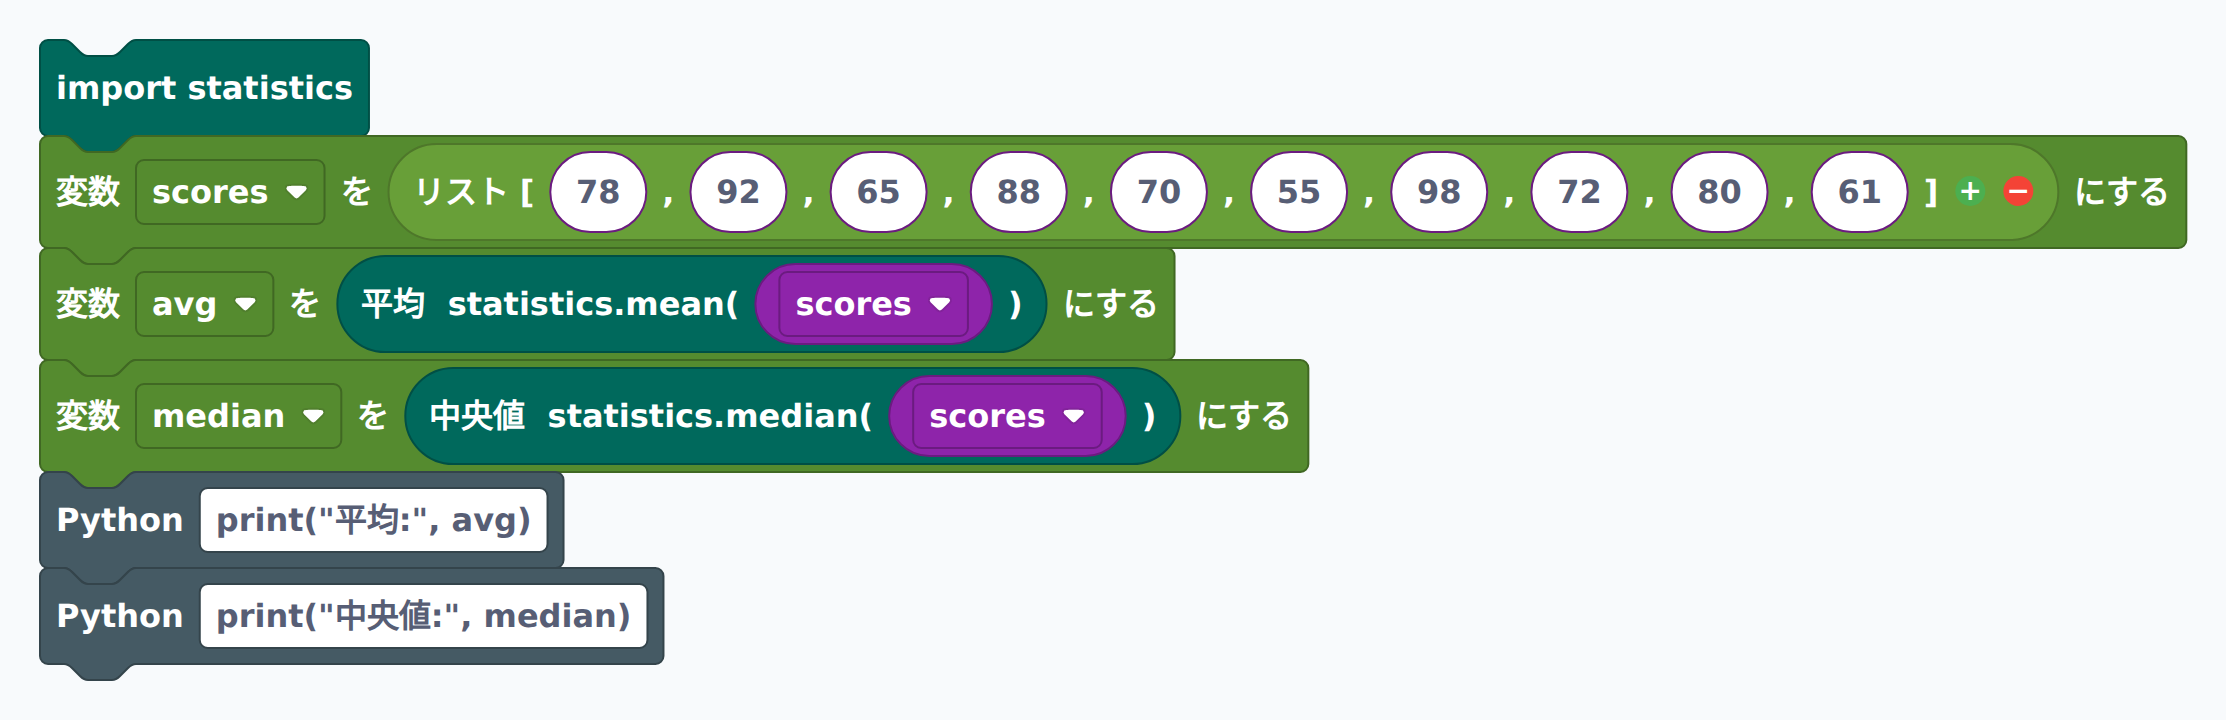
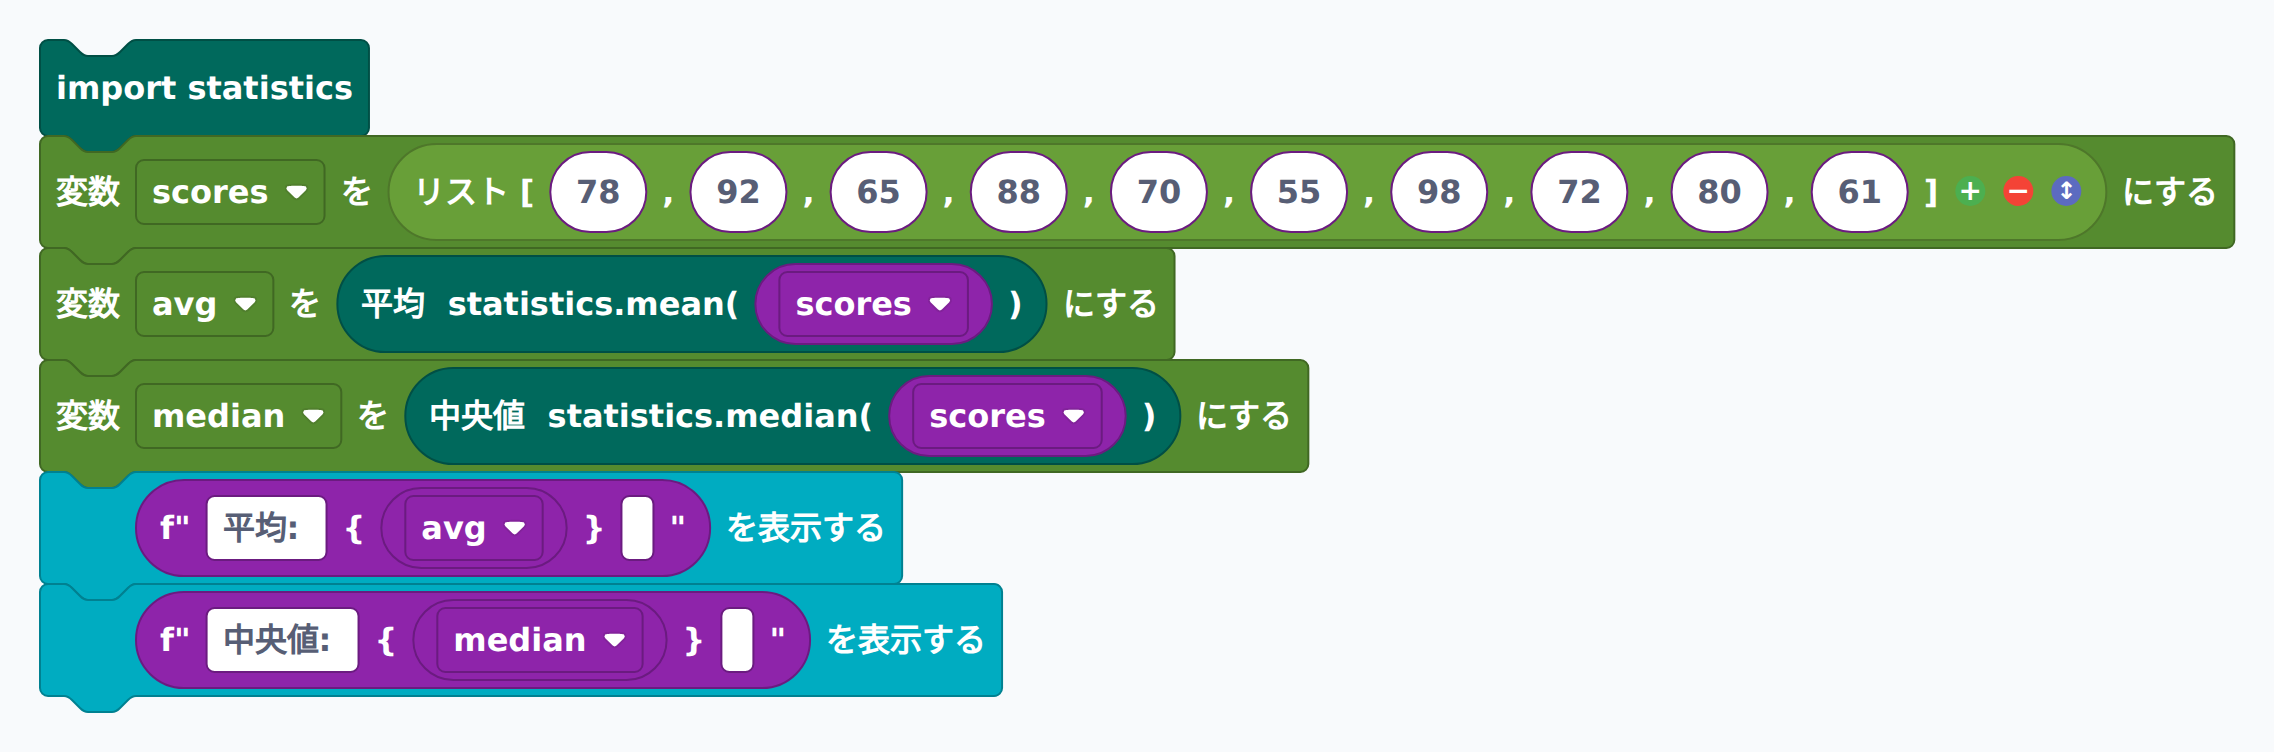
feat(stats): Skulpt用 statistics モジュール shim を追加
js/stats_engine.js を新設し、mean / median / median_low /
median_high / mode / multimode / stdev / pstdev / variance /
pvariance を Skulpt の builtinFiles に登録。Python 標準
statistics と同じ結果を返す。

これにより `import statistics` 系のブロック（py_import_stats /
py_stats_mean / py_stats_median / py_stats_stdev / py_stats_mode）
が PycoBlocks 上で実行できるようになり、Pythonデータ分析③ の
ステップ1・課題3-3-1 で発生していた ImportError を解消する。

合わせて Pythonデータ分析③ 課題3-3-1 の XML を py_custom_stmt
から py_print_multi + py_stats_* に置き換え、関連 PNG を再生成。

Changed region(s): [[0.0, 0.0611, 0.9919, 0.9472], [0.062, 0.0306, 0.155, 0.0611]]

diff --git a/js/stats_engine.js b/js/stats_engine.js
@@ -1,0 +1,201 @@
+// =====================================================
+// PycoBlocks Part 2 - statistics Skulpt module shim
+// mean / median / median_low / median_high / mode /
+// multimode / stdev / pstdev / variance / pvariance
+// =====================================================
+
+(() => {
+  'use strict';
+
+  const STATS_JS = String.raw`var $builtinmodule = function(name) {
+  'use strict';
+  var mod = {};
+  var Sk = globalThis.Sk;
+
+  function toJsList(py) {
+    var v = Sk.ffi.remapToJs(py);
+    if (!Array.isArray(v)) {
+      throw new Sk.builtin.TypeError('expected an iterable of numbers');
+    }
+    var out = [];
+    for (var i = 0; i < v.length; i++) {
+      var x = Number(v[i]);
+      if (!isFinite(x)) {
+        throw new Sk.builtin.TypeError('cannot convert to number: ' + String(v[i]));
+      }
+      out.push(x);
+    }
+    return out;
+  }
+
+  function toPy(js) { return Sk.ffi.remapToPy(js); }
+
+  function statsError(msg) {
+    var E = mod.StatisticsError || Sk.builtin.ValueError;
+    return new E(msg);
+  }
+
+  function meanArr(a) {
+    var s = 0;
+    for (var i = 0; i < a.length; i++) s += a[i];
+    return s / a.length;
+  }
+
+  function sortedCopy(a) {
+    return a.slice().sort(function(x, y) { return x - y; });
+  }
+
+  function medianArr(a) {
+    var s = sortedCopy(a);
+    var n = s.length;
+    var mid = Math.floor(n / 2);
+    return (n % 2 === 1) ? s[mid] : (s[mid - 1] + s[mid]) / 2;
+  }
+
+  function medianLowArr(a) {
+    var s = sortedCopy(a);
+    var n = s.length;
+    return (n % 2 === 1) ? s[Math.floor(n / 2)] : s[n / 2 - 1];
+  }
+
+  function medianHighArr(a) {
+    var s = sortedCopy(a);
+    return s[Math.floor(s.length / 2)];
+  }
+
+  function modeArr(a) {
+    var counts = new Map();
+    for (var i = 0; i < a.length; i++) {
+      var k = a[i];
+      counts.set(k, (counts.get(k) || 0) + 1);
+    }
+    var firstKey = a[0];
+    var bestKey = firstKey, bestN = counts.get(firstKey);
+    var iter = counts.entries();
+    var step = iter.next();
+    while (!step.done) {
+      var pair = step.value;
+      if (pair[1] > bestN) { bestN = pair[1]; bestKey = pair[0]; }
+      step = iter.next();
+    }
+    return bestKey;
+  }
+
+  function multimodeArr(a) {
+    var counts = new Map();
+    var order = [];
+    for (var i = 0; i < a.length; i++) {
+      var k = a[i];
+      if (!counts.has(k)) order.push(k);
+      counts.set(k, (counts.get(k) || 0) + 1);
+    }
+    var maxN = 0;
+    counts.forEach(function(n) { if (n > maxN) maxN = n; });
+    var out = [];
+    for (var j = 0; j < order.length; j++) {
+      if (counts.get(order[j]) === maxN) out.push(order[j]);
+    }
+    return out;
+  }
+
+  function pvarianceArr(a) {
+    var m = meanArr(a);
+    var s = 0;
+    for (var i = 0; i < a.length; i++) {
+      var d = a[i] - m;
+      s += d * d;
+    }
+    return s / a.length;
+  }
+
+  function varianceArr(a) {
+    var m = meanArr(a);
+    var s = 0;
+    for (var i = 0; i < a.length; i++) {
+      var d = a[i] - m;
+      s += d * d;
+    }
+    return s / (a.length - 1);
+  }
+
+  // StatisticsError class (subclass of ValueError)
+  mod.StatisticsError = Sk.misceval.buildClass(
+    mod,
+    function(gbl, loc) {},
+    'StatisticsError',
+    [Sk.builtin.ValueError]
+  );
+
+  mod.mean = new Sk.builtin.func(function(data) {
+    var a = toJsList(data);
+    if (a.length < 1) throw statsError('mean requires at least one data point');
+    return toPy(meanArr(a));
+  });
+
+  mod.median = new Sk.builtin.func(function(data) {
+    var a = toJsList(data);
+    if (a.length < 1) throw statsError('no median for empty data');
+    return toPy(medianArr(a));
+  });
+
+  mod.median_low = new Sk.builtin.func(function(data) {
+    var a = toJsList(data);
+    if (a.length < 1) throw statsError('no median for empty data');
+    return toPy(medianLowArr(a));
+  });
+
+  mod.median_high = new Sk.builtin.func(function(data) {
+    var a = toJsList(data);
+    if (a.length < 1) throw statsError('no median for empty data');
+    return toPy(medianHighArr(a));
+  });
+
+  mod.mode = new Sk.builtin.func(function(data) {
+    var a = toJsList(data);
+    if (a.length < 1) throw statsError('no mode for empty data');
+    return toPy(modeArr(a));
+  });
+
+  mod.multimode = new Sk.builtin.func(function(data) {
+    var a = toJsList(data);
+    return toPy(multimodeArr(a));
+  });
+
+  mod.stdev = new Sk.builtin.func(function(data) {
+    var a = toJsList(data);
+    if (a.length < 2) throw statsError('stdev requires at least two data points');
+    return toPy(Math.sqrt(varianceArr(a)));
+  });
+
+  mod.pstdev = new Sk.builtin.func(function(data) {
+    var a = toJsList(data);
+    if (a.length < 1) throw statsError('pstdev requires at least one data point');
+    return toPy(Math.sqrt(pvarianceArr(a)));
+  });
+
+  mod.variance = new Sk.builtin.func(function(data) {
+    var a = toJsList(data);
+    if (a.length < 2) throw statsError('variance requires at least two data points');
+    return toPy(varianceArr(a));
+  });
+
+  mod.pvariance = new Sk.builtin.func(function(data) {
+    var a = toJsList(data);
+    if (a.length < 1) throw statsError('pvariance requires at least one data point');
+    return toPy(pvarianceArr(a));
+  });
+
+  return mod;
+};`;
+
+  window.PycoStats = {
+    source: STATS_JS,
+    installIntoSkulpt: function(Sk) {
+      if (!Sk) return;
+      if (!Sk.builtinFiles) Sk.builtinFiles = { files: {} };
+      if (!Sk.builtinFiles['files']) Sk.builtinFiles['files'] = {};
+      Sk.builtinFiles['files']['statistics.js'] = STATS_JS;
+      Sk.builtinFiles['files']['statistics/__init__.js'] = STATS_JS;
+    }
+  };
+})();

diff --git a/js/app.js b/js/app.js
@@ -3357,10 +3357,9 @@ document.addEventListener('DOMContentLoaded', function() {
 
     // matplotlib プロットエリアをクリア（前回の描画を消す）
     const plotArea = document.getElementById('pyco-plot-area');
-    if (plotArea) {
-      plotArea.innerHTML = '';
-      plotArea.style.display = 'none';
-    }
+    if (plotArea) plotArea.innerHTML = '';
+    const plotRow = document.getElementById('pyco-plot-row');
+    if (plotRow) plotRow.style.display = 'none';
     const plotHandle = document.getElementById('plot-resize-handle');
     if (plotHandle) plotHandle.style.display = 'none';
     // 画像処理表示エリアをクリア
@@ -3421,6 +3420,10 @@ document.addEventListener('DOMContentLoaded', function() {
     if (window.PycoChart && typeof window.PycoChart.installIntoSkulpt === 'function') {
       try { window.PycoChart.installIntoSkulpt(Sk); } catch (e) { console.warn('matplotlib install failed', e); }
     }
+    // statistics モジュール登録
+    if (window.PycoStats && typeof window.PycoStats.installIntoSkulpt === 'function') {
+      try { window.PycoStats.installIntoSkulpt(Sk); } catch (e) { console.warn('statistics install failed', e); }
+    }
 
     Sk.misceval.asyncToPromise(function() {
       return Sk.importMainWithBody('<stdin>', false, code, true);
@@ -3434,7 +3437,8 @@ document.addEventListener('DOMContentLoaded', function() {
       appendShellText('>>> 完了\n', false, 'py-prompt');
       // matplotlib でグラフが描かれた場合は表示
       if (plotArea && plotArea.querySelector('canvas, svg, img')) {
-        plotArea.style.display = 'block';
+        const plotRow = document.getElementById('pyco-plot-row');
+        if (plotRow) plotRow.style.display = 'flex';
       }
     }).catch(function(err) {
       if (_pyStopRequested) {
@@ -3903,6 +3907,47 @@ document.addEventListener('DOMContentLoaded', function() {
     handle.addEventListener('touchstart', e => { e.preventDefault(); startDrag(e.touches[0].clientY); }, { passive: false });
     document.addEventListener('mousemove', e => onMove(e.clientY));
     document.addEventListener('touchmove', e => { if (dragging) { e.preventDefault(); onMove(e.touches[0].clientY); } }, { passive: false });
+    document.addEventListener('mouseup', () => { document.body.style.cursor = ''; endDrag(); });
+    document.addEventListener('touchend', endDrag);
+  })();
+
+  // 左右リサイズ（グラフエリアの横幅）
+  (function() {
+    const wHandle  = document.getElementById('plot-width-handle');
+    const plotArea = document.getElementById('pyco-plot-area');
+    const plotRow  = document.getElementById('pyco-plot-row');
+    if (!wHandle || !plotArea || !plotRow) return;
+
+    let dragging = false, startX = 0, startW = 0;
+
+    function startDrag(clientX) {
+      dragging = true;
+      startX   = clientX;
+      startW   = plotArea.getBoundingClientRect().width;
+      wHandle.classList.add('dragging');
+      document.body.style.userSelect = 'none';
+    }
+    function onMove(clientX) {
+      if (!dragging) return;
+      const rowW = plotRow.getBoundingClientRect().width;
+      const newW = Math.min(rowW - 6, Math.max(150, startW + (clientX - startX)));
+      plotArea.style.flex = `0 0 ${newW}px`;
+      if (window.Chart) {
+        const chart = Chart.getChart(plotArea.querySelector('canvas'));
+        if (chart) chart.resize();
+      }
+    }
+    function endDrag() {
+      if (!dragging) return;
+      dragging = false;
+      wHandle.classList.remove('dragging');
+      document.body.style.userSelect = '';
+    }
+
+    wHandle.addEventListener('mousedown', e => { document.body.style.cursor = 'col-resize'; startDrag(e.clientX); });
+    wHandle.addEventListener('touchstart', e => { e.preventDefault(); startDrag(e.touches[0].clientX); }, { passive: false });
+    document.addEventListener('mousemove', e => onMove(e.clientX));
+    document.addEventListener('touchmove', e => { if (dragging) { e.preventDefault(); onMove(e.touches[0].clientX); } }, { passive: false });
     document.addEventListener('mouseup', () => { document.body.style.cursor = ''; endDrag(); });
     document.addEventListener('touchend', endDrag);
   })();

diff --git a/index.html b/index.html
@@ -109,7 +109,10 @@
         <pre id="monitor-output"></pre>
         <!-- Part 2: matplotlib プロット表示エリア -->
         <div id="plot-resize-handle" class="plot-resize-handle" style="display:none;"></div>
-        <div id="pyco-plot-area" style="display:none; background:#fff; overflow:hidden; padding:4px;"></div>
+        <div id="pyco-plot-row" style="display:none;">
+          <div id="pyco-plot-area" style="background:#fff; overflow:hidden; padding:4px;"></div>
+          <div id="plot-width-handle" class="plot-width-handle"></div>
+        </div>
         <!-- Part 5: 画像処理 表示エリア -->
         <div id="cv-display-area" style="display:none; background:#f8fafc; border-top:1px solid #e2e8f0; padding:8px; text-align:center; overflow:auto;"></div>
       </div>
@@ -1235,8 +1238,9 @@
   <script src="js/blocks/ml.js?v=20260503b"></script>
   <script src="js/image_engine.js?v=20260503b"></script>
   <script src="js/blocks/image_blocks.js?v=20260503b"></script>
-  <script src="js/chart_engine.js?v=20260504a"></script>
-  <script src="js/app.js?v=20260503a"></script>
+  <script src="js/chart_engine.js?v=20260506a"></script>
+  <script src="js/stats_engine.js?v=20260506a"></script>
+  <script src="js/app.js?v=20260506b"></script>
 
   <!-- エラー解説パネル（body末尾・fixed配置） -->
   <div id="error-hint">
